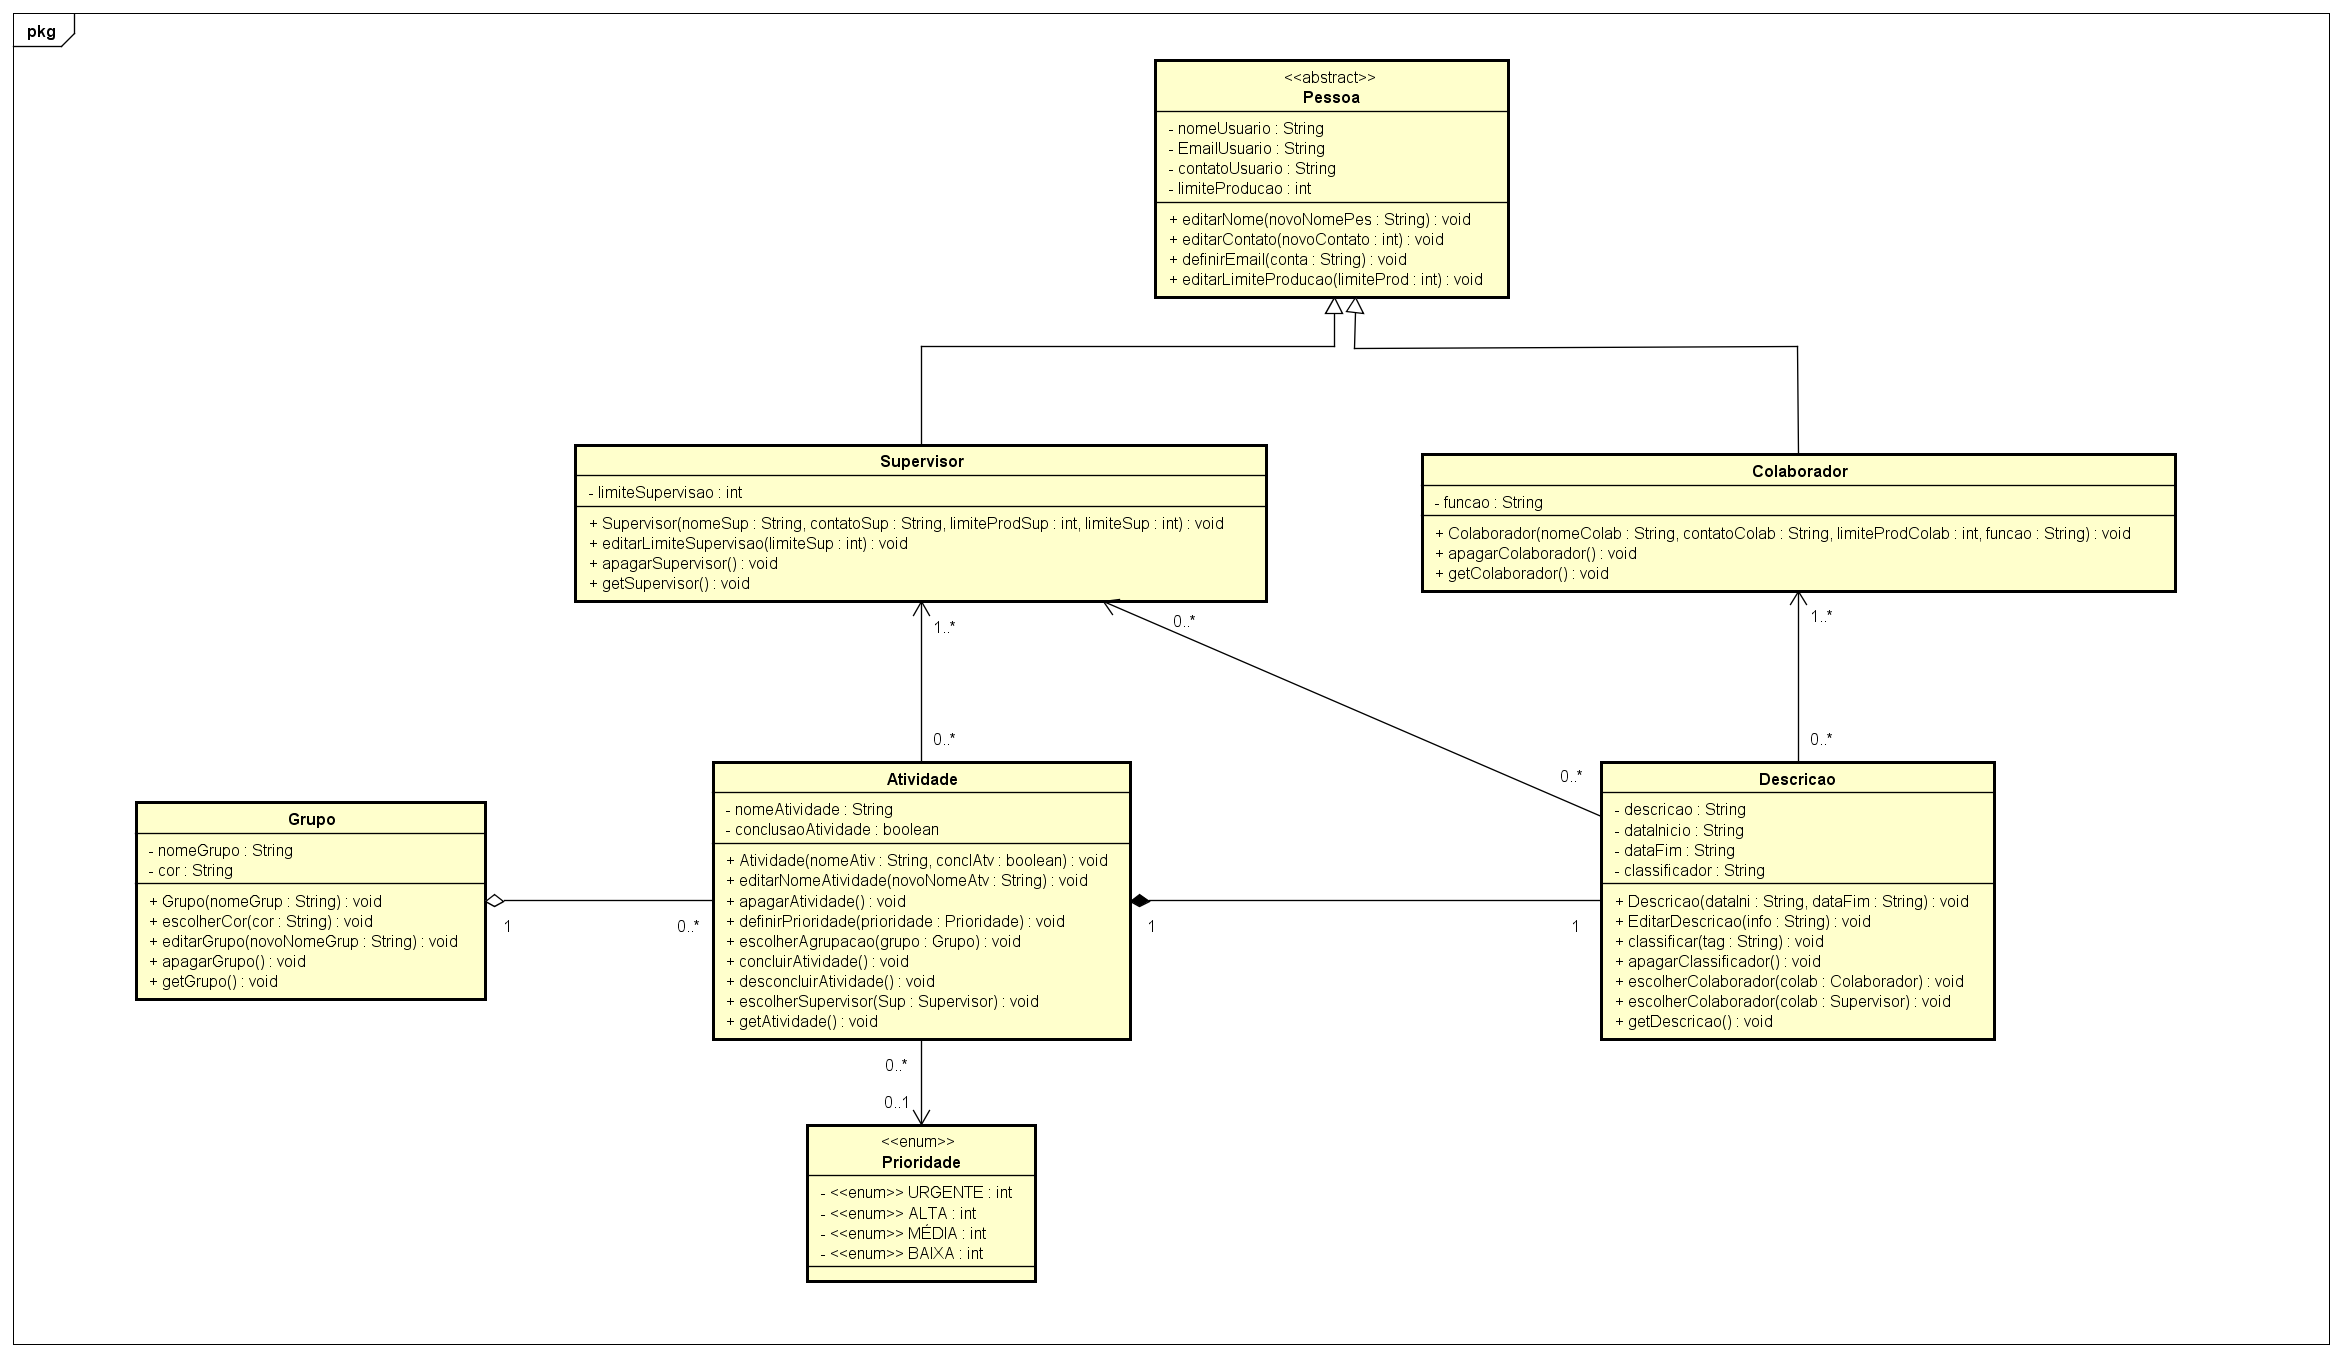
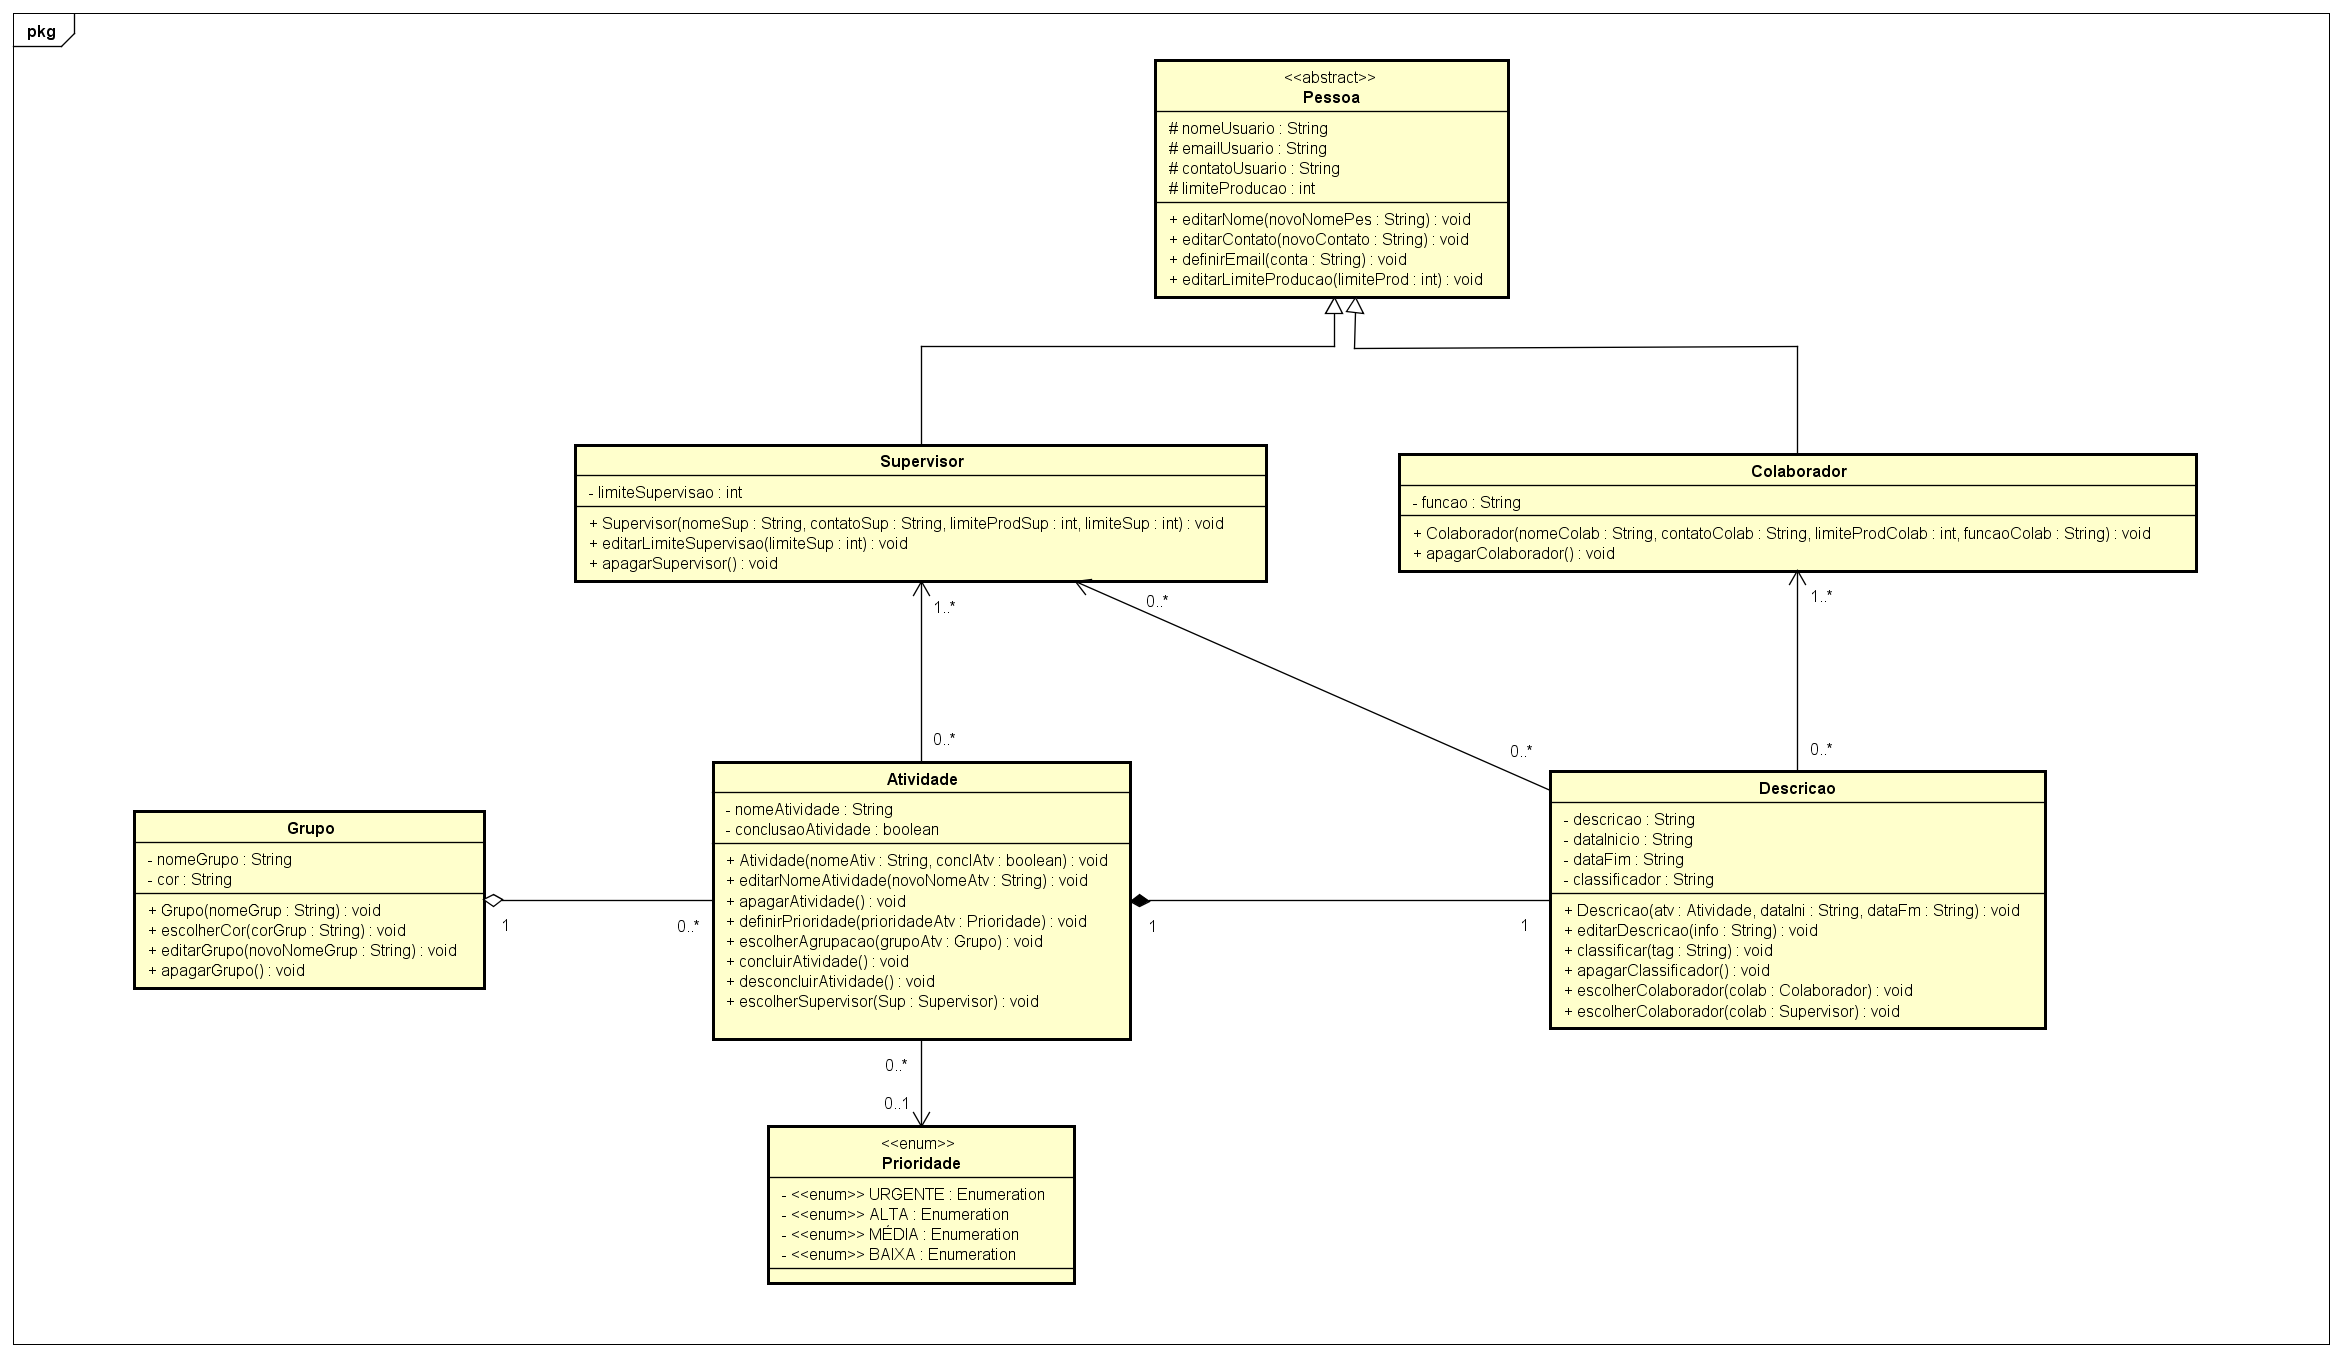
Correções e Atualização de UML

diff --git a/Atividades/src/modelo/Supervisor.java b/Atividades/src/modelo/Supervisor.java
@@ -19,10 +19,6 @@ public class Supervisor extends Pessoa {
 
 	}
 
-	public void getSupervisor() {
-		this.toString();
-	}
-
 	public int getLimiteSupervisao() {
 		return limiteSupervisao;
 	}

diff --git a/Atividades/src/modelo/Colaborador.java b/Atividades/src/modelo/Colaborador.java
@@ -15,10 +15,6 @@ public class Colaborador extends Pessoa {
 
 	}
 
-	public void getColaborador() {
-		this.toString();
-	}
-
 	public String getFuncao() {
 		return funcao;
 	}

diff --git a/Atividades/src/modelo/Grupo.java b/Atividades/src/modelo/Grupo.java
@@ -22,10 +22,6 @@ public class Grupo {
 
 	}
 
-	public void getGrupo() {
-		this.toString();
-	}
-
 	public String getNomeGrupo() {
 		return nomeGrupo;
 	}
